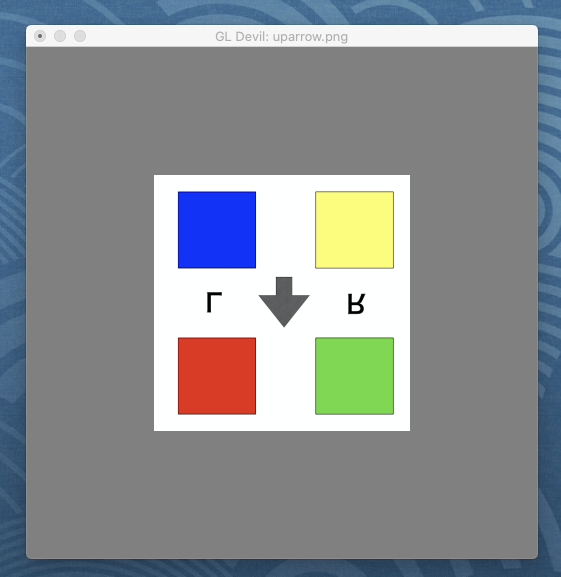
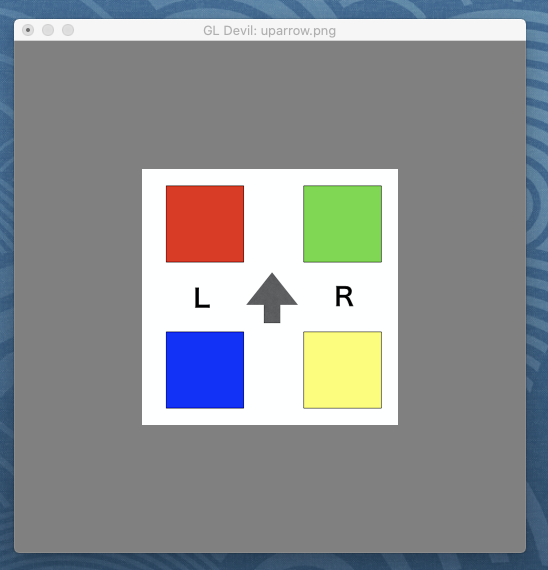
update

diff --git a/Devil/test_gl.cpp b/Devil/test_gl.cpp
@@ -58,12 +58,14 @@ void Display()
 	glColor4f(1.0, 1.0, 1.0, 1.0);
 
 	// Draw a rectangle with texture coordinates
+    // OpenGL coordinates are upside down.
+    //mapping texure
+    // to display in the correct orientation
 	glBegin(GL_QUADS);
-
-	glTexCoord2d(0.0, 0.0);	glVertex3d(-size, -size, 0.0);
-	glTexCoord2d(0.0, 1.0);	glVertex3d(-size, size, 0.0);
-	glTexCoord2d(1.0, 1.0);		glVertex3d(size, size, 0.0);
-	glTexCoord2d(1.0, 0.0);	glVertex3d(size, -size, 0.0);
+	   glTexCoord2d(-1.0, 1.0);	glVertex3d(-size, -size, 0.0);
+	   glTexCoord2d(-1.0, 0.0);	glVertex3d(-size, size, 0.0);
+	   glTexCoord2d(0.0, 0.0);	glVertex3d(size, size, 0.0);
+	   glTexCoord2d(0.0, 1.0);	glVertex3d(size, -size, 0.0);
 	glEnd();
 	//　
 	glBindTexture(GL_TEXTURE_2D, 0);

diff --git a/TGALoader/test_gl.cpp b/TGALoader/test_gl.cpp
@@ -230,8 +230,8 @@ void Display()
 
 	// Draw a rectangle with texture coordinates
     // OpenGL coordinates are upside down.
-    //mapping texure upside down
-    // tp display in the correct orientation,
+    //mapping texure
+    // to display in the correct orientation
 	glBegin(GL_QUADS);
 	   glTexCoord2d(-1.0, 1.0);	glVertex3d(-size, -size, 0.0);
 	   glTexCoord2d(-1.0, 0.0);	glVertex3d(-size, size, 0.0);

diff --git a/Devil/README.md b/Devil/README.md
@@ -1,8 +1,8 @@
-Devil
+Devi
 ===============
 
 Devil Sample <br/>
-read and write Image File using Devil <br/>
+read and write Image File <br/>
 
 ### Caution
 Devil saving images upside-down
@@ -87,16 +87,6 @@ loadImage: ./images/uparrow.png ( 512 x 512 ) <br/>
 read image file <br/>
 show image in OpenGL window <br/>  
 <image src="https://raw.githubusercontent.com/ohwada/MAC_cpp_Samples/master/Devil/result/screenshot_gl_uparrow.png" width="300" /><br/>
-
-Note: <br/>
-display upside down <br/>
-because the OpenGL coordinates are reversed  <br/>
-load Image in the correct orientation  <br/>
-
-
-how to display in the correct orientation  <br/>
-See:  <br/>
-https://github.com/ohwada/MAC_cpp_Samples/tree/master/OpenGL-GLFW-Texture  <br/>
 
 
 ## test_write.cpp
